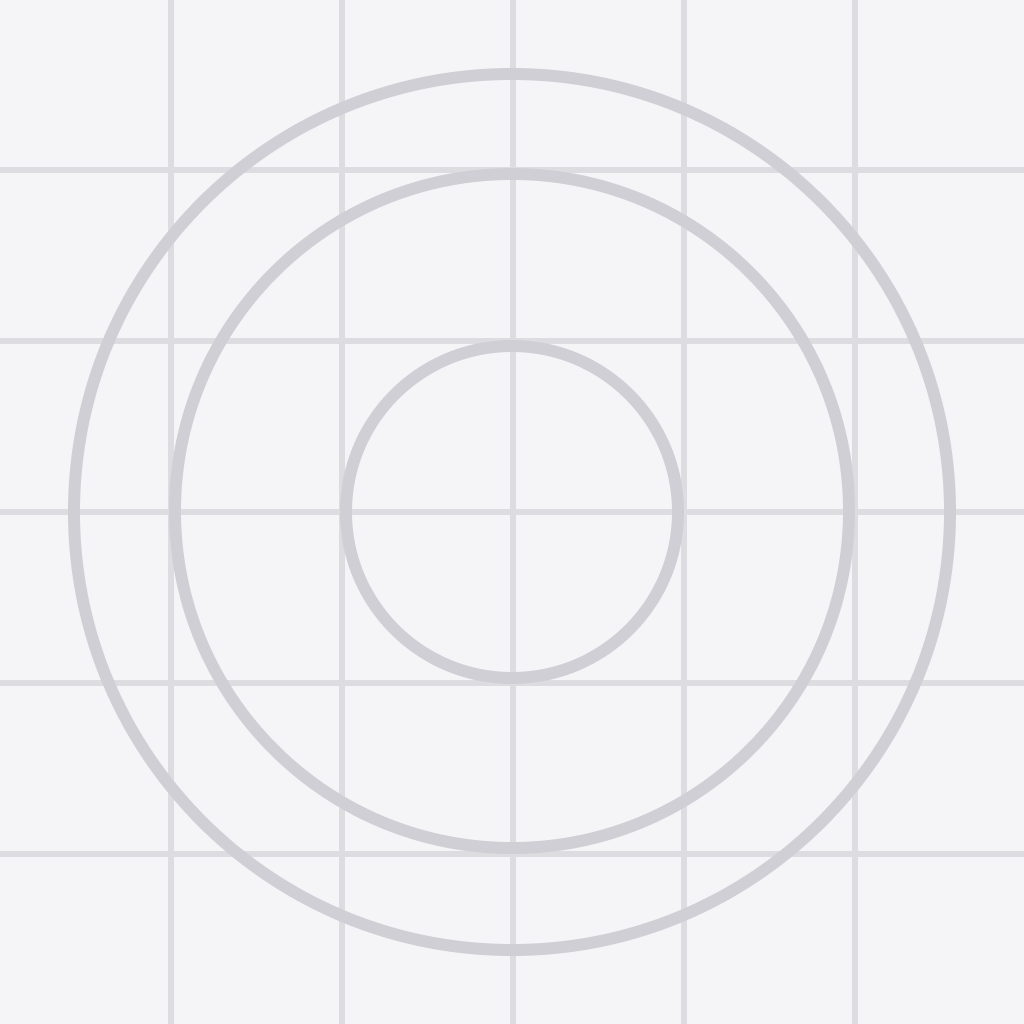
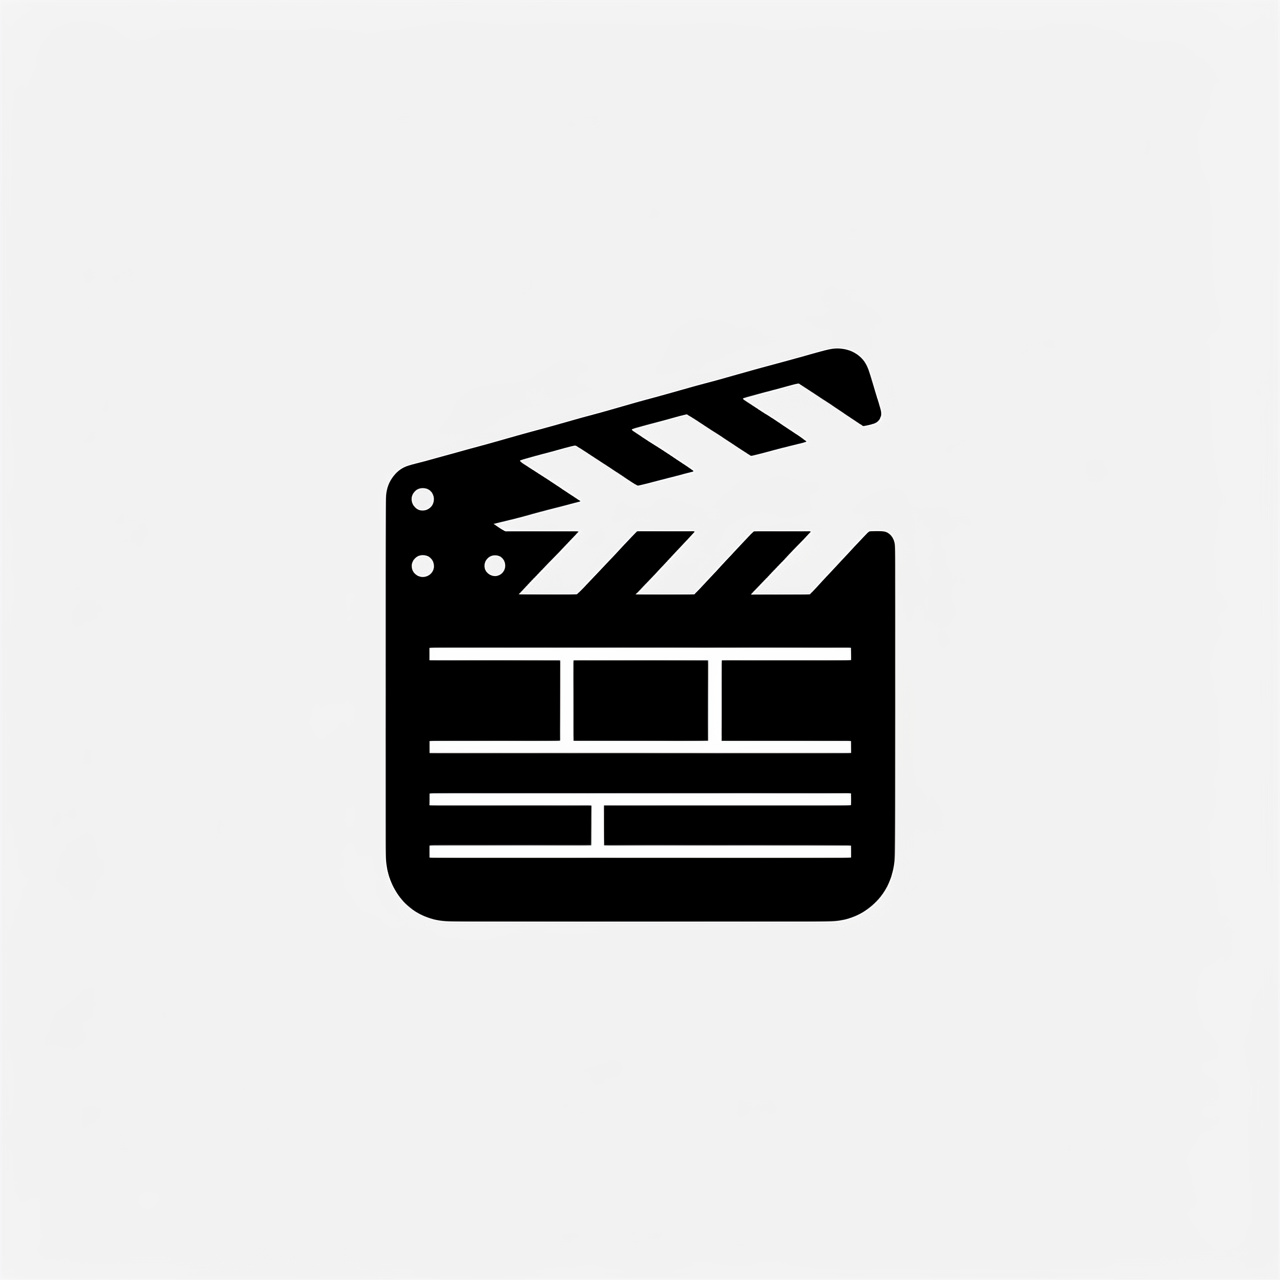
edit splash screen

diff --git a/screens/Home.js b/screens/Home.js
@@ -17,6 +17,7 @@ const Home = () => {
   return (
     <View style={styles.container}>
       <Search query={query} onChange={handleChange}></Search>
+
       <FlatList
         data={filteredMovies}
         keyExtractor={item => item.id}